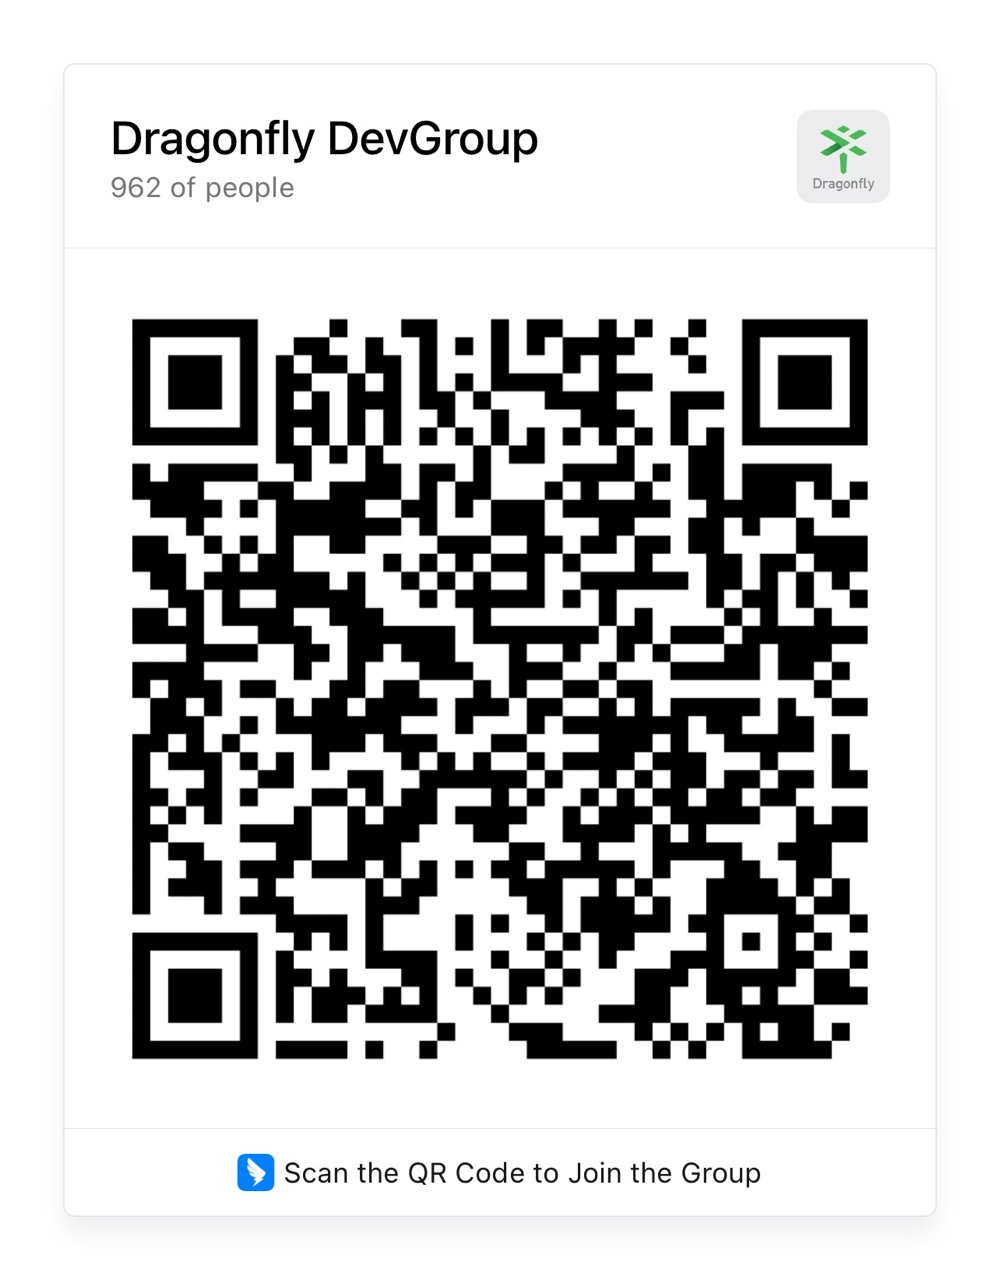
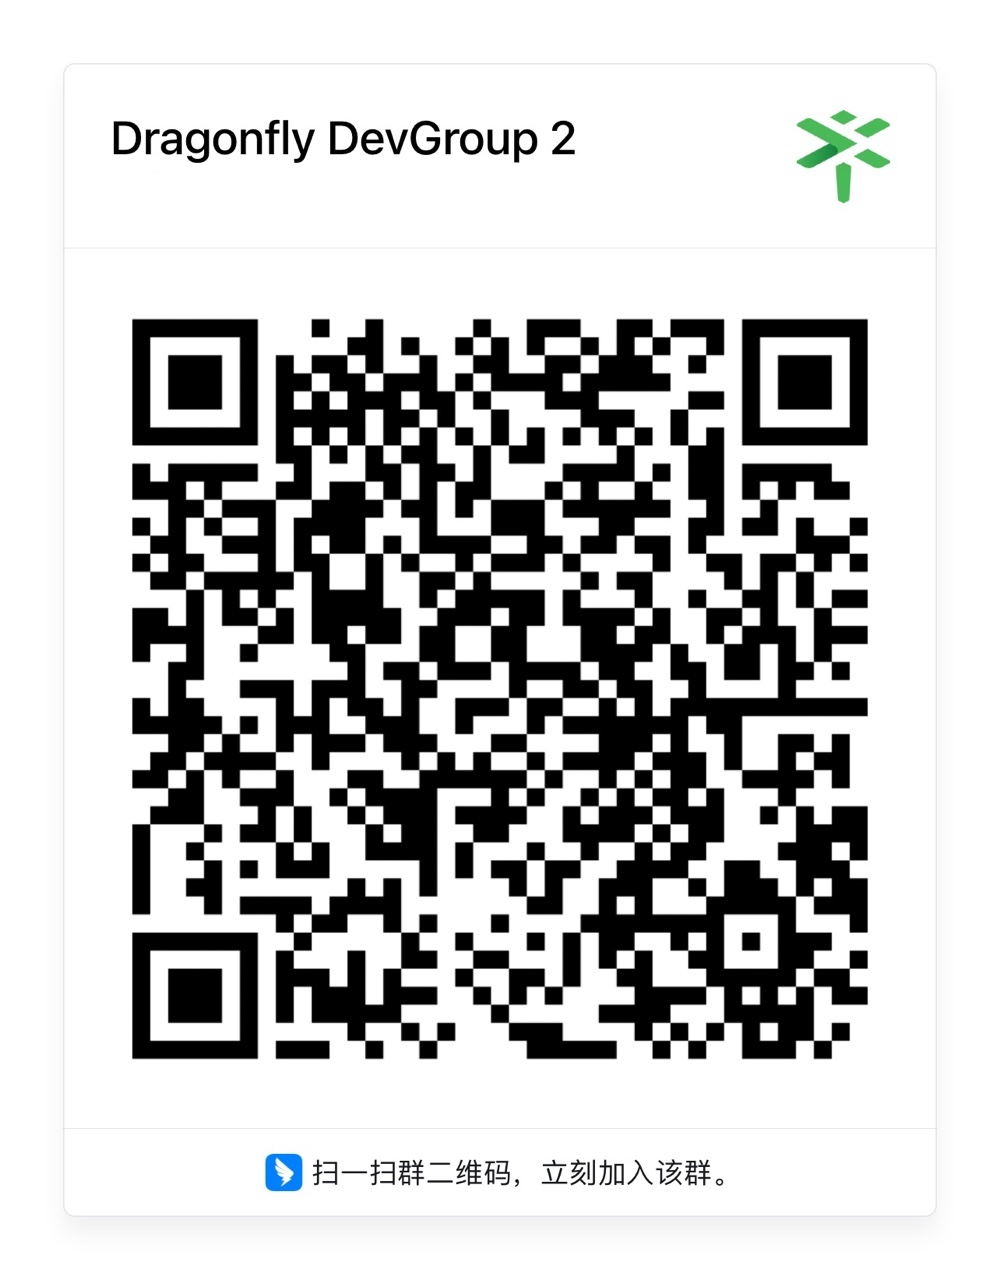
chore: update dingtalk group qrcode (#2262)

diff --git a/README.md b/README.md
@@ -62,7 +62,7 @@ Join the conversation and help the community.
 - **Developer Group**: <dragonfly-developers@googlegroups.com>
 - **Github Discussions**: [Dragonfly Discussion Forum][discussion]
 - **Twitter**: [@dragonfly_oss](https://twitter.com/dragonfly_oss)
-- **DingTalk**: [23304666](https://qr.dingtalk.com/action/joingroup?code=v1,k1,3wEdP6zHKQbOzBRwOvv8wyIbxDEU0kXMrxphaOcPz6I=&_dt_no_comment=1&origin=11)
+- **DingTalk**: [22880028764](https://qr.dingtalk.com/action/joingroup?code=v1,k1,pkV9IbsSyDusFQdByPSK3HfCG61ZCLeb8b/lpQ3uUqI=&_dt_no_comment=1&origin=11)
 
 <!-- markdownlint-disable -->
 <div align="center">
